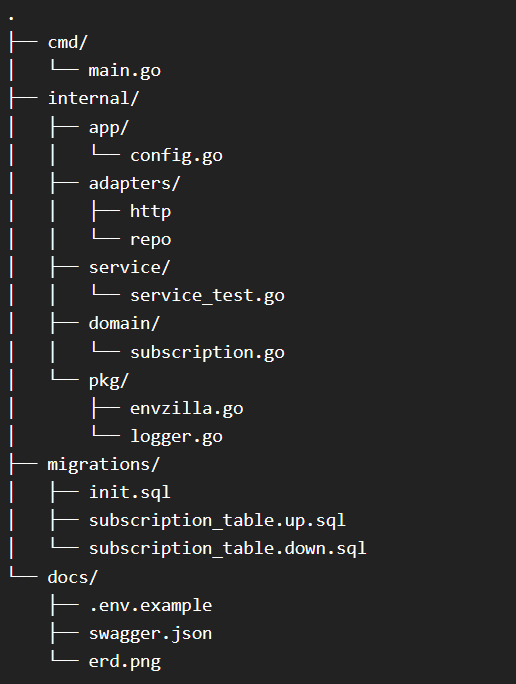
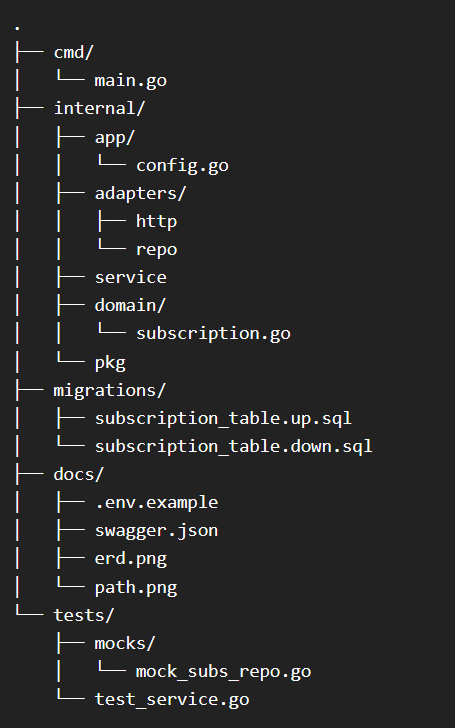
chore: add tests

Changed region(s): [[0.0, 0.0307, 0.8, 0.9825], [0.8, 0.5833, 0.8308, 0.614]]

diff --git a/tests/service_test.go b/tests/service_test.go
@@ -1,0 +1,158 @@
+package tests
+
+import (
+	"context"
+	"log/slog"
+	"os"
+	"submanager/internal/domain"
+	"submanager/internal/service"
+	mock "submanager/tests/mocks"
+	"testing"
+	"time"
+)
+
+var (
+	serv *service.SubsService
+)
+
+func TestMain(m *testing.M) {
+	slog.Info("Starting the tests...")
+
+	// Initialize the mock repository and service
+	repo := mock.NewMockSubsRepo()
+	log := slog.Default()
+	serv = service.NewSubsService(repo, log)
+
+	defer os.Exit(m.Run())
+	slog.Info("Test has been finished...")
+}
+
+func TestCreateSubscription(t *testing.T) {
+	ctx := context.Background()
+
+	// Define a sample subscription
+	sampleSubscription := domain.Subscription{
+		ServiceName: "TestService",
+		UserID:      "user123",
+		StartDate:   time.Now(),
+		Price:       100,
+	}
+
+	// Default test case
+	err := serv.CreateSubscription(ctx, sampleSubscription)
+	if err != nil {
+		t.Errorf("Expected no error, got %v", err)
+	}
+
+	// Check if subscription not unique
+	sampleSubscription.ServiceName = "notunique"
+	if err := serv.CreateSubscription(ctx, sampleSubscription); err == nil {
+		t.Errorf("Expected error %v, got %v", domain.ErrSubNotUnique, err)
+	}
+}
+
+func TestGetSubscription(t *testing.T) {
+	ctx := context.Background()
+
+	serviceName, userID := "TestService", "user123"
+
+	// Default test case
+	_, err := serv.GetSubscription(ctx, serviceName, userID)
+	if err != nil {
+		t.Errorf("Expected no error, got %v", err)
+	}
+
+	// Check if subscription not found
+	serviceName = "notexist"
+	_, err = serv.GetSubscription(ctx, serviceName, userID)
+	if err == nil {
+		t.Errorf("Expected error %v, got %v", domain.ErrSubsNotFound, err)
+	}
+}
+
+func TestGetSubscriptionList(t *testing.T) {
+	ctx := context.Background()
+	userId := "user123"
+
+	// Default test case
+	if _, err := serv.GetSubscriptionList(ctx, userId); err != nil {
+		t.Errorf("Expected no error, got %v", err)
+	}
+
+	// Check if subscription list not found
+	userId = "notexist"
+	if _, err := serv.GetSubscriptionList(ctx, userId); err == nil {
+		t.Errorf("Expected error %v, got %v", domain.ErrSubsNotFound, err)
+	}
+}
+
+func TestUpdateSubscription(t *testing.T) {
+	ctx := context.Background()
+
+	// Define a sample subscription
+	sampleSubscription := domain.Subscription{
+		ServiceName: "TestService",
+		UserID:      "user123",
+		StartDate:   time.Now(),
+		Price:       100,
+	}
+
+	// Default test case
+	if err := serv.UpdateSubscription(ctx, sampleSubscription); err != nil {
+		t.Errorf("Expected no error, got %v", err)
+	}
+
+	// Check if subscription not found
+	sampleSubscription.ServiceName = "notexist"
+	if err := serv.UpdateSubscription(ctx, sampleSubscription); err == nil {
+		t.Errorf("Expected error %v, got %v", domain.ErrSubsNotFound, err)
+	}
+}
+
+func TestDeleteSubscription(t *testing.T) {
+	ctx := context.Background()
+
+	// Default test case
+	serviceName, userID := "TestService", "user123"
+	if err := serv.DeleteSubscription(ctx, serviceName, userID); err != nil {
+		t.Errorf("Expected no error, got %v", err)
+	}
+
+	// Check if subscription not found
+	serviceName = "notexist"
+	if err := serv.DeleteSubscription(ctx, serviceName, userID); err == nil {
+		t.Errorf("Expected error %v, got %v", domain.ErrSubsNotFound, err)
+	}
+}
+
+func TestDeleteSubscriptionList(t *testing.T) {
+	ctx := context.Background()
+
+	// Default test case
+	userID := "user123"
+	if err := serv.DeleteSubscriptionList(ctx, userID); err != nil {
+		t.Errorf("Expected no error, got %v", err)
+	}
+
+	// Check if subscription not found
+	userID = "notexist"
+	if err := serv.DeleteSubscriptionList(ctx, userID); err == nil {
+		t.Errorf("Expected error %v, got %v", domain.ErrSubsNotFound, err)
+	}
+}
+
+func TestGetSummaryByFilter(t *testing.T) {
+	ctx := context.Background()
+
+	// Default test case
+	start, end, serviceName, userID := time.Now(), time.Now(), "TestService", "user123"
+	if _, err := serv.GetSummaryByFilter(ctx, start, end, serviceName, userID); err != nil {
+		t.Errorf("Expected no error, got %v", err)
+	}
+
+	// Check if subscription not found
+	serviceName = "notexist"
+	if _, err := serv.GetSummaryByFilter(ctx, start, end, serviceName, userID); err == nil {
+		t.Errorf("Expected error %v, got %v", domain.ErrSubsNotFound, err)
+	}
+}

diff --git a/tests/mocks/mock_subsRepo.go b/tests/mocks/mock_subsRepo.go
@@ -1,0 +1,64 @@
+package mock
+
+import (
+	"context"
+	"submanager/internal/domain"
+	"time"
+)
+
+type MockSubsRepo struct {
+}
+
+func NewMockSubsRepo() *MockSubsRepo {
+	return &MockSubsRepo{}
+}
+
+func (repo *MockSubsRepo) Create(ctx context.Context, subs domain.Subscription) error {
+	return nil
+}
+func (repo *MockSubsRepo) Delete(ctx context.Context, serviceName string, userID string) error {
+	if serviceName == "notexist" {
+		return domain.ErrSubsNotFound
+	}
+	return nil
+}
+func (repo *MockSubsRepo) DeleteList(ctx context.Context, userID string) error {
+	if userID == "notexist" {
+		return domain.ErrSubsNotFound
+	}
+	return nil
+}
+func (repo *MockSubsRepo) Get(ctx context.Context, serviceName string, userID string) (domain.Subscription, error) {
+	if serviceName == "notexist" {
+		return domain.Subscription{}, domain.ErrSubsNotFound
+	}
+	return domain.Subscription{}, nil
+}
+func (repo *MockSubsRepo) IsUnique(ctx context.Context, serviceName string, userID string) (bool, error) {
+	if serviceName == "notunique" {
+		return false, nil
+	}
+	return true, nil
+}
+func (repo *MockSubsRepo) List(ctx context.Context, userID string) ([]domain.Subscription, error) {
+	if userID == "notexist" {
+		return []domain.Subscription{}, nil
+	}
+	return []domain.Subscription{
+		{},
+	}, nil
+}
+func (repo *MockSubsRepo) SubsListByFilter(ctx context.Context, start time.Time, end time.Time, serviceName string, userID string) ([]domain.Subscription, error) {
+	if serviceName == "notexist" {
+		return []domain.Subscription{}, nil
+	}
+	return []domain.Subscription{
+		{},
+	}, nil
+}
+func (repo *MockSubsRepo) Update(ctx context.Context, subs domain.Subscription) error {
+	if subs.ServiceName == "notexist" {
+		return domain.ErrSubsNotFound
+	}
+	return nil
+}
